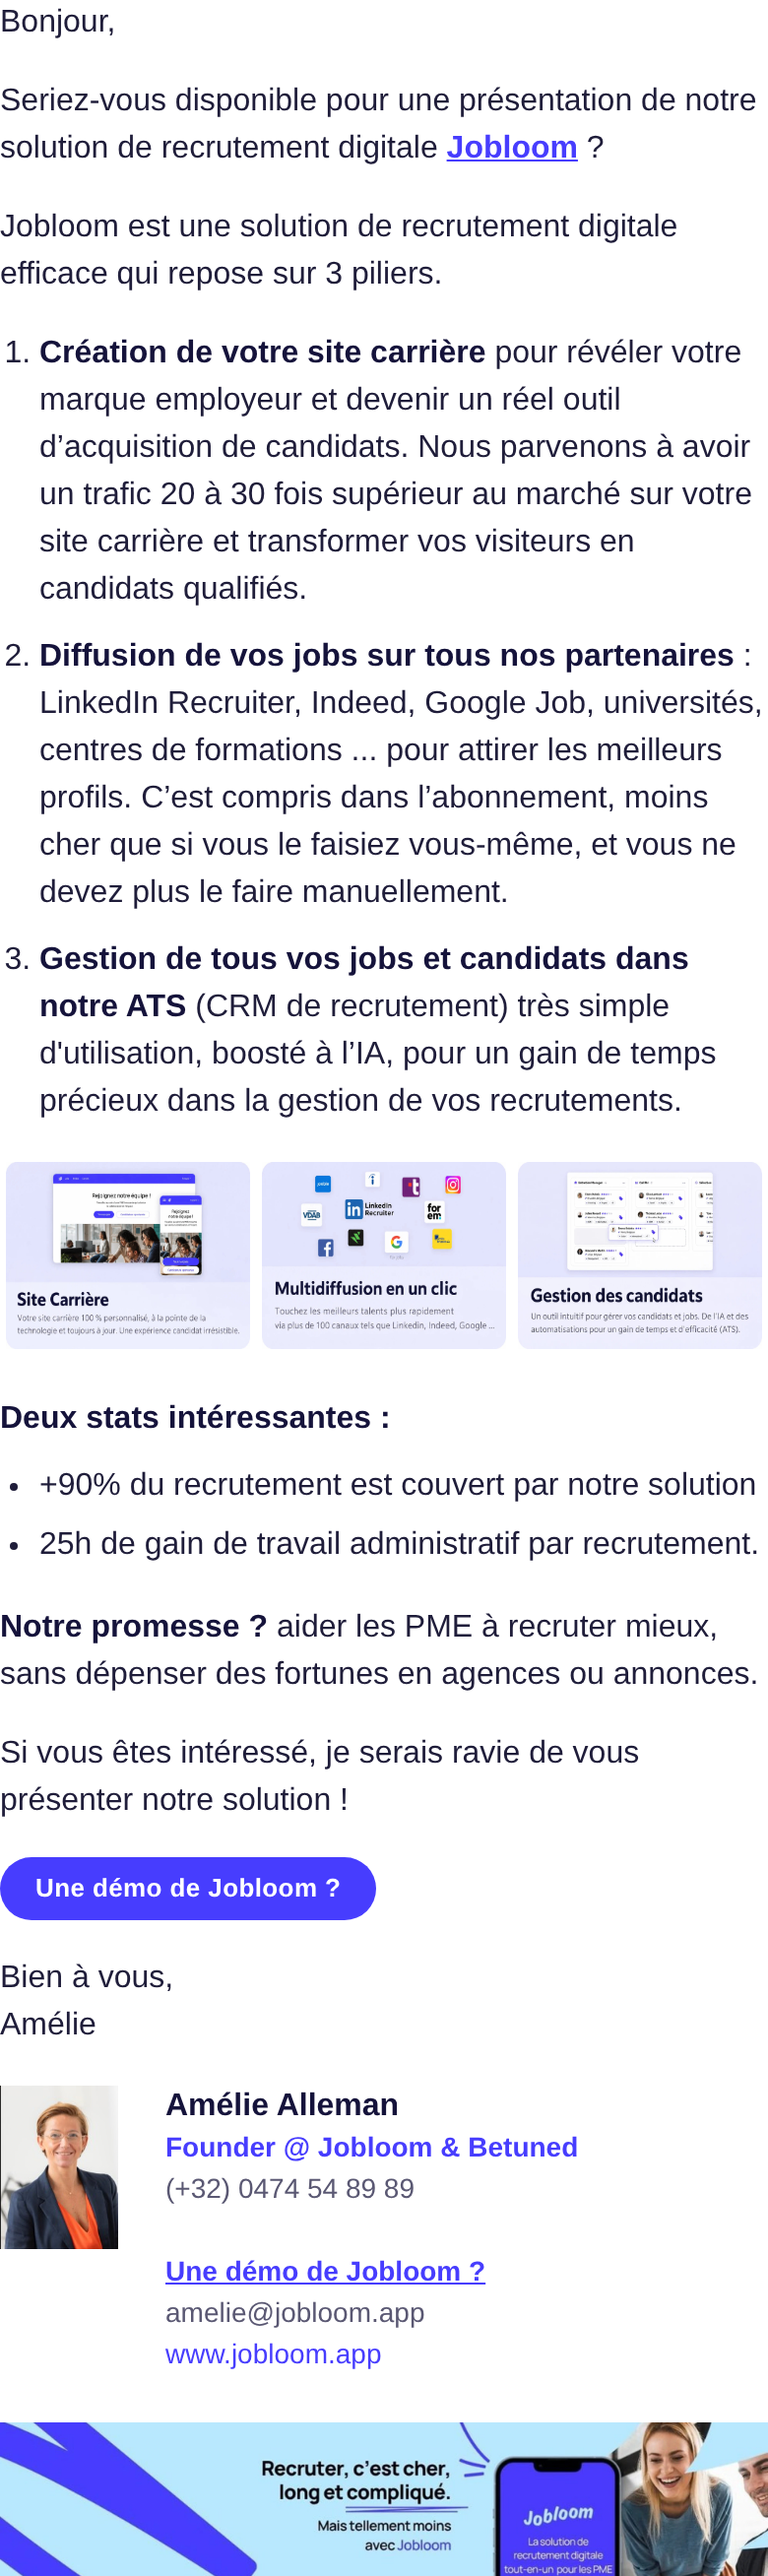
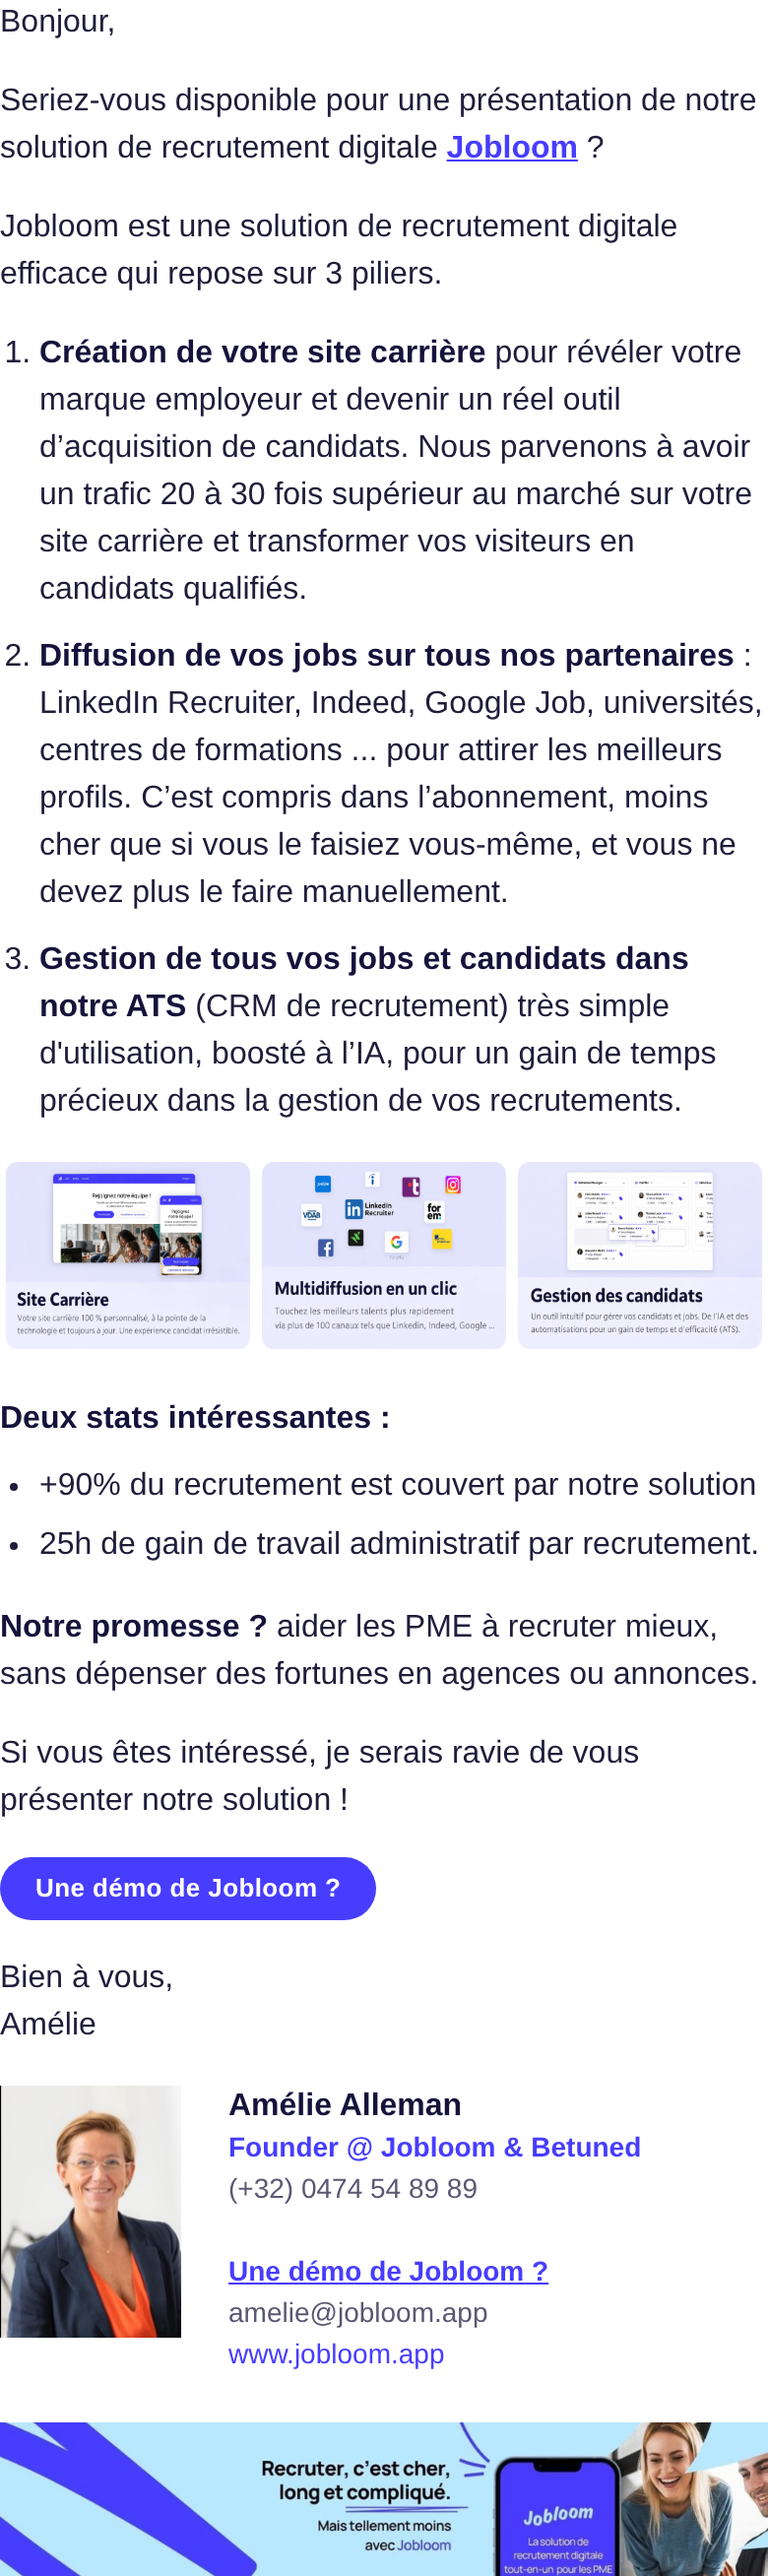
Email Amélie : photo de signature à la hauteur du texte
Claude-Session: https://claude.ai/code/session_01XTeiUwKp5X2MxE8FSKHjU9

Changed region(s): [[0.0, 0.805, 0.7692, 0.9289]]

diff --git a/email-livrable/email_1st_Amelie_final.html b/email-livrable/email_1st_Amelie_final.html
@@ -22,8 +22,8 @@ li{margin-left:0 !important;}</style>
   .cards{width:100% !important;}
   .cardtd{padding:0 3px !important;}
   .cardtd img{height:95px !important;}
-  .sig-photo{width:72px !important;padding-right:12px !important;}
-  .sig-img{width:60px !important;height:83px !important;}
+  .sig-photo{width:104px !important;padding-right:12px !important;}
+  .sig-img{width:92px !important;height:128px !important;}
 }
 </style>
 </head>
@@ -63,7 +63,7 @@ li{margin-left:0 !important;}</style>
 
 <table role="presentation" cellpadding="0" cellspacing="0" border="0" style="border-collapse:collapse;font-family:Arial,Helvetica,sans-serif;font-size:14px;line-height:21px;mso-line-height-rule:exactly;color:#5A5873">
 <tr>
-<td class="sig-photo" valign="top" width="90" style="width:90px;padding:0 14px 0 0"><img src="https://jobloom-landing-pages-massimoharnisfeger-hues-projects.vercel.app/signature/amelie-alleman.jpg" width="76" height="106" alt="Amélie Alleman" class="sig-img" style="display:block;width:76px;height:106px;border:0"></td>
+<td class="sig-photo" valign="top" width="121" style="width:121px;padding:0 14px 0 0"><img src="https://jobloom-landing-pages-massimoharnisfeger-hues-projects.vercel.app/signature/amelie-alleman.jpg" width="107" height="148" alt="Amélie Alleman" class="sig-img" style="display:block;width:107px;height:148px;border:0"></td>
 <td valign="top" style="padding:0">
 <b style="font-size:16px;color:#15133B">Amélie Alleman</b><br>
 <span style="color:#473DFE;font-weight:bold">Founder @ Jobloom &amp; Betuned</span><br>
